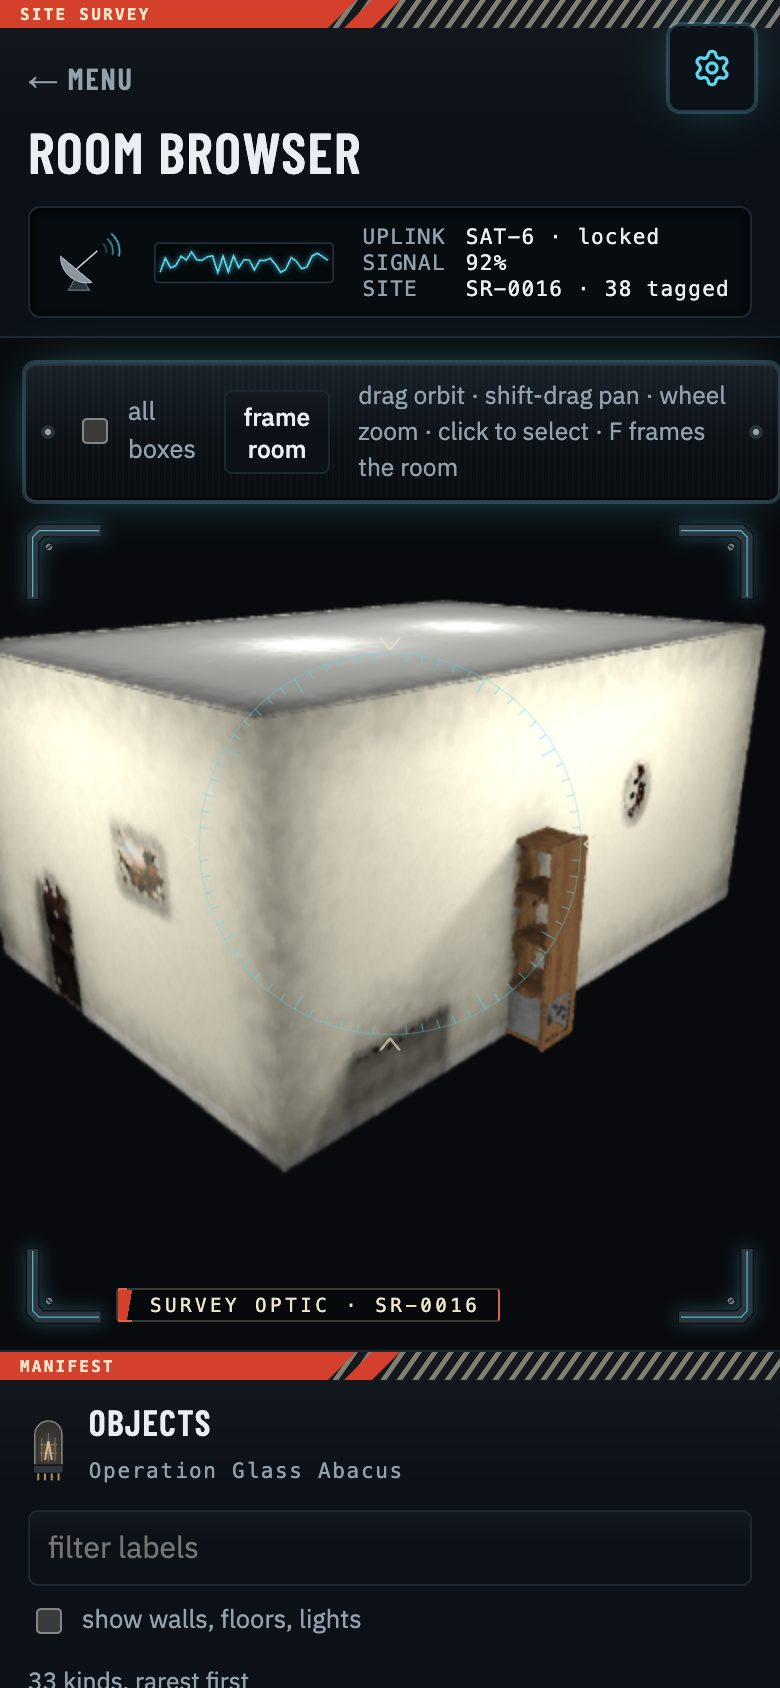
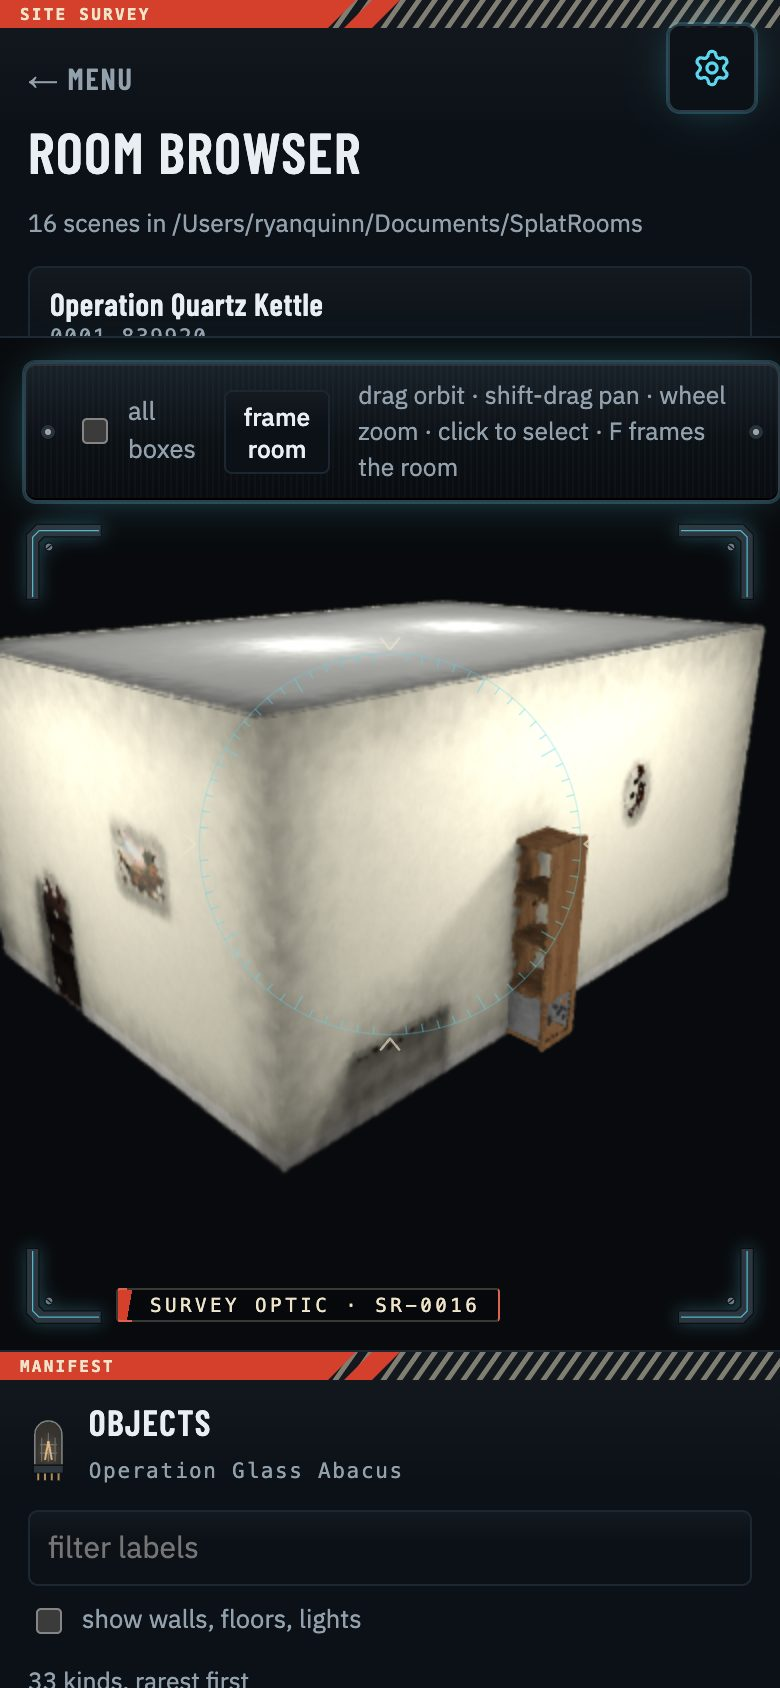
Splat Rooms: the judge's readability notes on round 2 (report form wraps, cog over the manifest and the lid, uplink on a phone)
Part of #3623.

Changed region(s): [[0.0308, 0.1232, 0.8308, 0.2156], [0.8308, 0.154, 0.9231, 0.1848]]

diff --git a/apps/splat-rooms/src/ui/eqosys.ts b/apps/splat-rooms/src/ui/eqosys.ts
@@ -13,7 +13,7 @@ export const SIGN_IN_FROM = ["https://splat-rooms.notryanquinn.workers.dev"];
 /**
  * The gadget lab's look on every eqosys surface (account chip, report form, achievement toast) and on the cog's
  * Controls sheet (controls.ts): dark glass with a hairline, the one cyan glow, condensed uppercase heads, the red trim
- * along the top of a toast and the report form (a secure terminal: its fields type in the lab mono), and the signed-in
+ * along the top of a toast and the report form (a secure terminal: its one-line fields type in the lab mono), and the signed-in
  * name as an agent's callsign (--panel, --edge, --accent, --red, --cream, --glow, --mono in app.css).
  */
 export const SKIN = {
@@ -26,7 +26,7 @@ export const SKIN = {
   css: `.eq-chip{justify-self:start}.eq-chip:empty{display:none}.eq-btn{font-family:var(--silk);letter-spacing:.06em;text-transform:uppercase}.eq-who,.eq-title,.eq-toast b{font-weight:600}
 .eq-note{color:var(--warn)}.eq-btn:hover{border-color:var(--accent);box-shadow:var(--glow)}
 .eq-toast,.eq-form{border-top:3px solid var(--red);box-shadow:var(--glow),0 18px 40px -16px #000}
-.eq-form input,.eq-form textarea,.eq-form select{font-family:var(--mono);font-size:.85rem;letter-spacing:.02em}
+.eq-form input,.eq-form select{font-family:var(--mono);font-size:.85rem;letter-spacing:.02em}
 .eq-who{font-family:var(--silk);letter-spacing:.05em;text-transform:uppercase}`,
 };
 

diff --git a/apps/splat-rooms/src/ui/app.css b/apps/splat-rooms/src/ui/app.css
@@ -56,6 +56,7 @@ h2 { font: 600 1.2rem/1 var(--silk); margin: 0 0 10px; text-transform: uppercase
 .card-k { font: .62rem var(--mono); letter-spacing: .18em; text-transform: uppercase; color: var(--red); }
 .manifest-head { display: flex; gap: 10px; align-items: center; margin-bottom: 10px; }
 .manifest-head h2 { margin: 0 0 3px; }
+.rail-right .manifest-head { padding-right: 52px; } /* clear of the cog */
 
 .mini { padding: 4px 9px; border-radius: 4px; color: var(--ink); cursor: pointer; font: 500 .82rem var(--body); }
 .mini:hover { border-color: var(--accent); }
@@ -351,5 +352,7 @@ code { font: .85em var(--mono); border-radius: 3px; padding: 1px 5px; }
   .scope-plate { left: 58px; }
   .case-lid { margin: 0 -16px; }
   .briefcase > .band { margin: 0 -16px 8px; width: calc(100% + 32px); }
+  .briefcase { margin-top: 50px; } /* the lid's latches clear of the cog */
+  .sat { display: none; } /* the rail is short on a phone: the room list starts in view */
 }
 .game-hud.bezel, .game-foot.bezel, .hud.bezel { padding-left: 24px; padding-right: 24px; }
